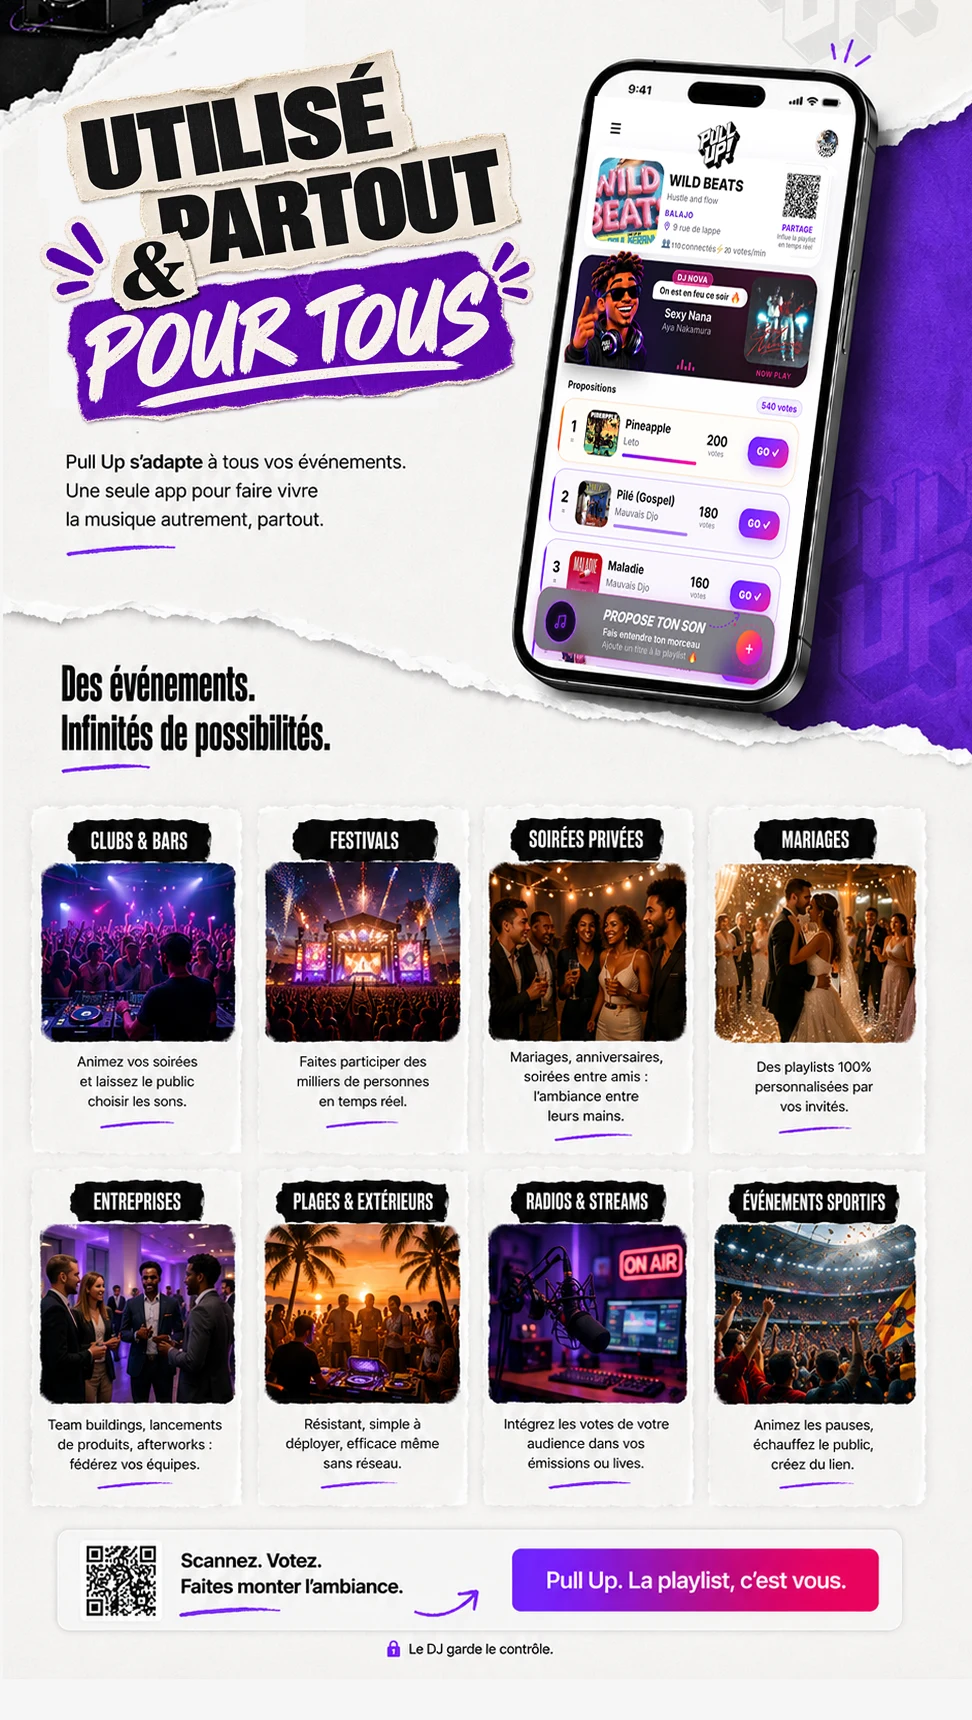
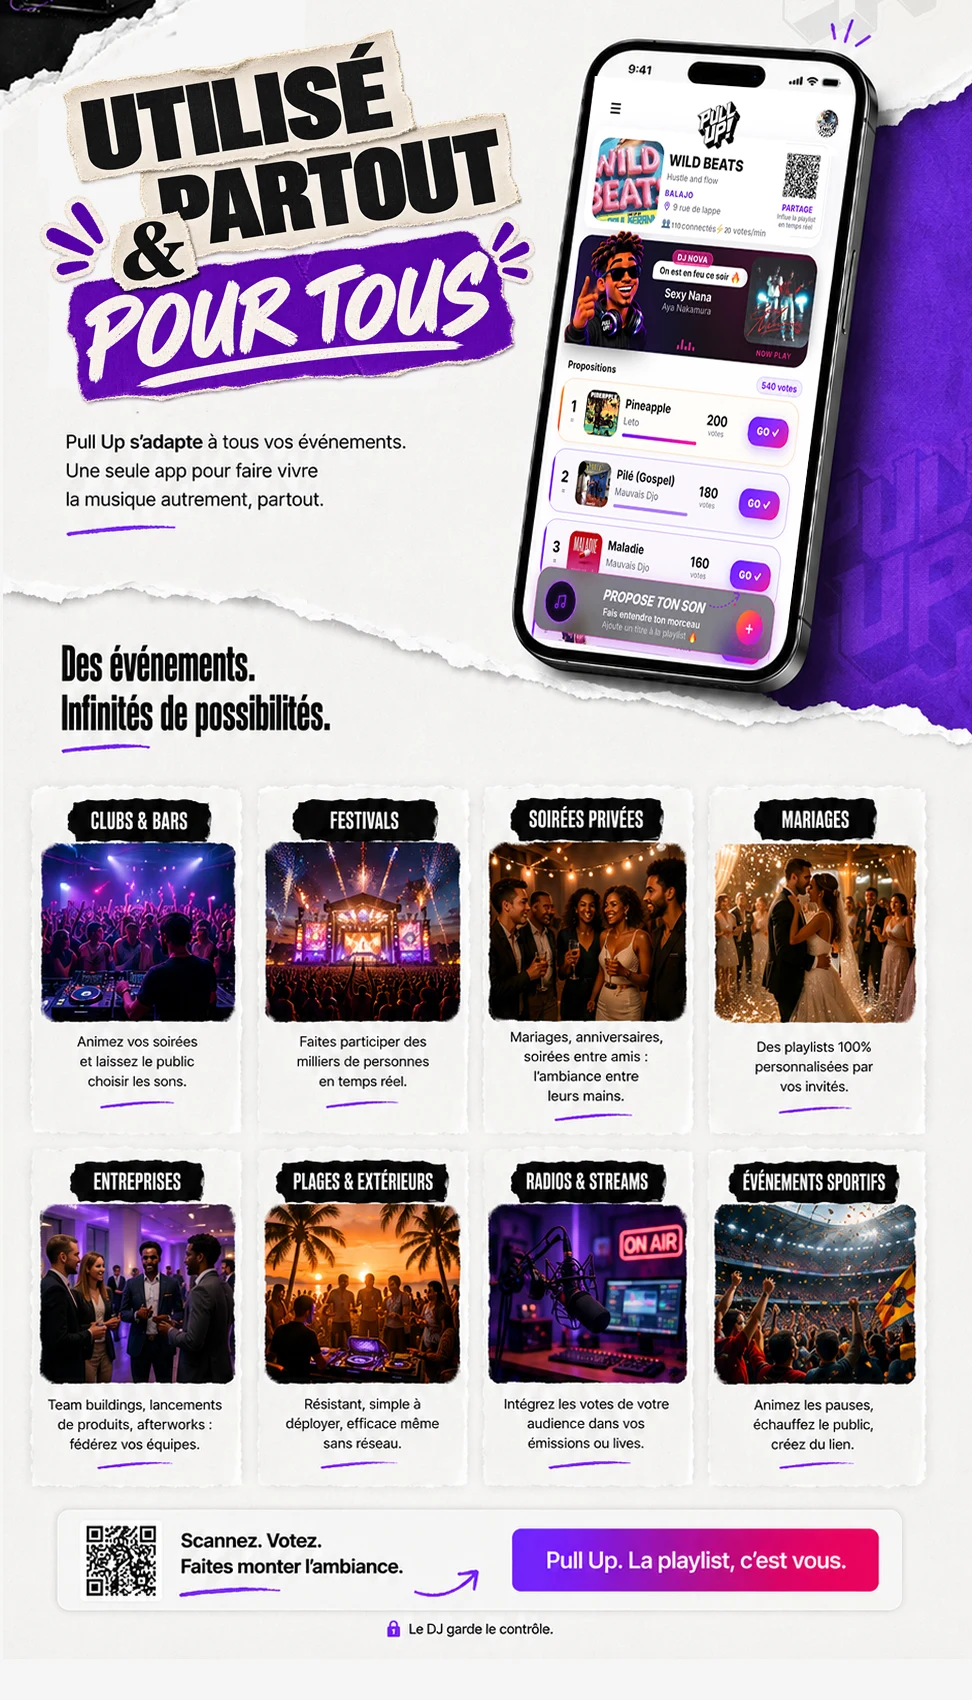
Trim 20px of top whitespace on the 'Utilisé partout' section image

diff --git a/public/landing.html b/public/landing.html
@@ -104,7 +104,7 @@ footer a:hover{color:#B98BFF}
   <div id="how"><a href="/app" aria-label="Rejoindre — Comment ça marche"><img src="/images/site/v6-how.webp" width="972" height="1750" alt="Comment ça marche : scanne, vote, pull up."></a></div>
   <div id="dj" style="position:relative"><a href="/app" aria-label="Rejoindre — Espace DJ"><img src="/images/site/v6-dj.webp" width="972" height="1670" alt="Espace DJ : press kit, page DJ, réseaux."></a><a href="/app?intent=dj-register" aria-label="S'inscrire comme DJ" style="position:absolute;top:86.4%;left:31.9%;width:57.1%;height:3.95%;z-index:2"></a></div>
   <div id="orga" style="position:relative"><a href="/app" aria-label="Rejoindre — Espace Organisateur"><img src="/images/site/v6-orga.webp" width="972" height="1750" alt="Espace Organisateur : créer un événement, suivre les votes en direct."></a><a href="/app?intent=create-event" aria-label="Créer mon événement" style="position:absolute;top:87.8%;left:15.7%;width:68.1%;height:4.74%;z-index:2"></a></div>
-  <div id="everywhere"><a href="/app" aria-label="Rejoindre — Utilisé partout"><img src="/images/site/v6-everywhere.webp" width="972" height="1720" alt="Utilisé partout : clubs, festivals, mariages, entreprises et plus."></a></div>
+  <div id="everywhere"><a href="/app" aria-label="Rejoindre — Utilisé partout"><img src="/images/site/v6-everywhere.webp" width="972" height="1700" alt="Utilisé partout : clubs, festivals, mariages, entreprises et plus."></a></div>
   <div id="pricing"><a href="/app" aria-label="Rejoindre — Tarifs"><img src="/images/site/v4-pricing.webp" width="972" height="1750" alt="Une seule formule, gratuite : tout inclus, sans engagement."></a></div>
 </div>
 
